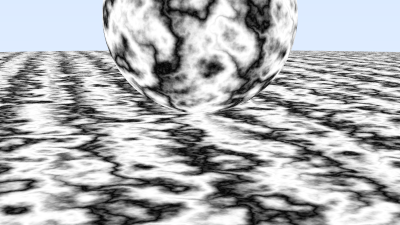
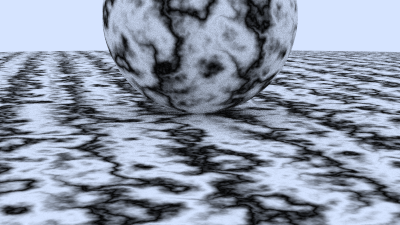
Added basic light, and added background color

diff --git a/src/scenes.h b/src/scenes.h
@@ -10,6 +10,7 @@
 #include "materials/Lambertian.h"
 #include "materials/Metal.h"
 #include "materials/Dielectric.h"
+#include "materials/DiffuseLight.h"
 
 void example1()
 {
@@ -20,6 +21,7 @@ void example1()
     settings.Camera.LookAt = Point3(0, 0, -1);
     settings.Camera.UpVec = Vec3(0, 1, 0);
     settings.Camera.VFOV = 20;
+    settings.Background = Color(0.70, 0.80, 1.00);
     settings.DefocusAngle = 10.0;
     settings.FocusDistance = 3.4;
     RayTracer tracer(settings);
@@ -42,6 +44,7 @@ void example1()
 void example2()
 {
     RayTracerSettings settings;
+    settings.Background = Color(0.70, 0.80, 1.00);
     RayTracer tracer(settings);
 
     float R = std::cos(PI / 4);
@@ -65,6 +68,7 @@ void finalScene()
     settings.Camera.LookFrom = Point3(13, 2, 3);
     settings.Camera.LookAt = Point3(0, 0, 0);
     settings.Camera.UpVec = Vec3(0, 1, 0);
+    settings.Background = Color(0.70, 0.80, 1.00);
     settings.DefocusAngle = 0.6f;
     settings.FocusDistance = 10.0f;
     RayTracer tracer(settings);
@@ -130,6 +134,7 @@ void bouncingBalls()
     settings.Camera.LookFrom = Point3(13, 2, 3);
     settings.Camera.LookAt = Point3(0, 0, 0);
     settings.Camera.UpVec = Vec3(0, 1, 0);
+    settings.Background = Color(0.70, 0.80, 1.00);
     settings.DefocusAngle = 0.6f;
     settings.FocusDistance = 10.0f;
     RayTracer tracer(settings);
@@ -196,6 +201,7 @@ void checkeredSpheres()
     settings.Camera.LookFrom = Point3(13, 2, 3);
     settings.Camera.LookAt = Point3(0, 0, 0);
     settings.Camera.UpVec = Vec3(0, 1, 0);
+    settings.Background = Color(0.70, 0.80, 1.00);
     RayTracer tracer(settings);
 
     auto checker = std::make_shared<CheckerTexture>(0.32, Color(.2, .3, .1), Color(.9, .9, .9));
@@ -216,6 +222,7 @@ void earth()
     settings.Camera.LookFrom = Point3(0, 0, 12);
     settings.Camera.LookAt = Point3(0, 0, 0);
     settings.Camera.UpVec = Vec3(0, 1, 0);
+    settings.Background = Color(0.70, 0.80, 1.00);
     RayTracer tracer(settings);
 
     auto earthTexture = std::make_shared<ImageTexture>("earthmap.jpg");
@@ -236,6 +243,7 @@ void imageSphere(const std::string& imagePath)
     settings.Camera.LookFrom = Point3(12, 0, 0);
     settings.Camera.LookAt = Point3(0, 0, 0);
     settings.Camera.UpVec = Vec3(0, 1, 0);
+    settings.Background = Color(0.70, 0.80, 1.00);
     RayTracer tracer(settings);
 
     auto earthTexture = std::make_shared<ImageTexture>(imagePath);
@@ -243,7 +251,7 @@ void imageSphere(const std::string& imagePath)
     auto globe = std::make_shared<Sphere>(Point3(0, 0, 0), 2, earthSurface);
     tracer.addObject(globe);
 
-    tracer.render("output/imageSphere.png");
+    tracer.render("output/image_sphere.png");
 }
 
 void perlinSpheres()
@@ -256,11 +264,12 @@ void perlinSpheres()
     settings.Camera.LookFrom = Point3(13, 2, 3);
     settings.Camera.LookAt = Point3(0, 0, 0);
     settings.Camera.UpVec = Vec3(0, 1, 0);
+    settings.Background = Color(0.70, 0.80, 1.00);
     RayTracer tracer(settings);
 
     auto pertext = std::make_shared<NoiseTexture>(4);
-    tracer.addObject(std::make_shared<Sphere>(Point3(0,-1000,0), 1000, std::make_shared<Lambertian>(pertext)));
-    tracer.addObject(std::make_shared<Sphere>(Point3(0,2,0), 2, std::make_shared<Lambertian>(pertext)));
+    tracer.addObject(std::make_shared<Sphere>(Point3(0, -1000, 0), 1000, std::make_shared<Lambertian>(pertext)));
+    tracer.addObject(std::make_shared<Sphere>(Point3(0, 2, 0), 2, std::make_shared<Lambertian>(pertext)));
 
     tracer.render("output/perlin_spheres.png");
 }
@@ -276,21 +285,76 @@ void quads()
     settings.Camera.LookFrom = Point3(0, 0, 9);
     settings.Camera.LookAt = Point3(0, 0, 0);
     settings.Camera.UpVec = Vec3(0, 1, 0);
+    settings.Background = Color(0.70, 0.80, 1.00);
     RayTracer tracer(settings);
 
     // Materials
-    auto left_red     = std::make_shared<Lambertian>(Color(1.0, 0.2, 0.2));
-    auto back_green   = std::make_shared<Lambertian>(Color(0.2, 1.0, 0.2));
-    auto right_blue   = std::make_shared<Lambertian>(Color(0.2, 0.2, 1.0));
+    auto left_red = std::make_shared<Lambertian>(Color(1.0, 0.2, 0.2));
+    auto back_green = std::make_shared<Lambertian>(Color(0.2, 1.0, 0.2));
+    auto right_blue = std::make_shared<Lambertian>(Color(0.2, 0.2, 1.0));
     auto upper_orange = std::make_shared<Lambertian>(Color(1.0, 0.5, 0.0));
-    auto lower_teal   = std::make_shared<Lambertian>(Color(0.2, 0.8, 0.8));
+    auto lower_teal = std::make_shared<Lambertian>(Color(0.2, 0.8, 0.8));
 
     // Quads
-    tracer.addObject(std::make_shared<Quad>(Point3(-3,-2, 5), Vec3(0, 0,-4), Vec3(0, 4, 0), left_red));
-    tracer.addObject(std::make_shared<Quad>(Point3(-2,-2, 0), Vec3(4, 0, 0), Vec3(0, 4, 0), back_green));
-    tracer.addObject(std::make_shared<Quad>(Point3( 3,-2, 1), Vec3(0, 0, 4), Vec3(0, 4, 0), right_blue));
+    tracer.addObject(std::make_shared<Quad>(Point3(-3, -2, 5), Vec3(0, 0, -4), Vec3(0, 4, 0), left_red));
+    tracer.addObject(std::make_shared<Quad>(Point3(-2, -2, 0), Vec3(4, 0, 0), Vec3(0, 4, 0), back_green));
+    tracer.addObject(std::make_shared<Quad>(Point3(3, -2, 1), Vec3(0, 0, 4), Vec3(0, 4, 0), right_blue));
     tracer.addObject(std::make_shared<Quad>(Point3(-2, 3, 1), Vec3(4, 0, 0), Vec3(0, 0, 4), upper_orange));
-    tracer.addObject(std::make_shared<Quad>(Point3(-2,-3, 5), Vec3(4, 0, 0), Vec3(0, 0,-4), lower_teal));
+    tracer.addObject(std::make_shared<Quad>(Point3(-2, -3, 5), Vec3(4, 0, 0), Vec3(0, 0, -4), lower_teal));
 
     tracer.render("output/quads.png");
+}
+
+void simpleLight()
+{
+    RayTracerSettings settings;
+    settings.Width = 400;
+    settings.SamplesPerPixel = 100;
+    settings.MaxDepth = 50;
+    settings.Camera.VFOV = 20;
+    settings.Camera.LookFrom = Point3(26, 3, 6);
+    settings.Camera.LookAt = Point3(0, 2, 0);
+    settings.Camera.UpVec = Vec3(0, 1, 0);
+    RayTracer tracer(settings);
+
+    auto pertext = std::make_shared<NoiseTexture>(4);
+    tracer.addObject(std::make_shared<Sphere>(Point3(0,-1000,0), 1000, std::make_shared<Lambertian>(pertext)));
+    tracer.addObject(std::make_shared<Sphere>(Point3(0,2,0), 2, std::make_shared<Lambertian>(pertext)));
+
+    auto difflight = std::make_shared<DiffuseLight>(Color(4,4,4));
+    tracer.addObject(std::make_shared<Sphere>(Point3(0,7,0), 2, difflight));
+    tracer.addObject(std::make_shared<Quad>(Point3(3,1,-2), Vec3(2,0,0), Vec3(0,2,0), difflight));
+
+    tracer.render("output/simple_light.png");
+}
+
+void cornellBox()
+{
+    RayTracerSettings settings;
+    settings.AspectRatio = 1.0f;
+    settings.Width = 600;
+    settings.SamplesPerPixel = 200;
+    settings.MaxDepth = 50;
+    settings.Camera.VFOV = 40;
+    settings.Camera.LookFrom = Point3(278, 278, -800);
+    settings.Camera.LookAt = Point3(278, 278, 0);
+    settings.Camera.UpVec = Vec3(0, 1, 0);
+    RayTracer tracer(settings);
+
+    auto red   = std::make_shared<Lambertian>(Color(.65, .05, .05));
+    auto white = std::make_shared<Lambertian>(Color(.73, .73, .73));
+    auto green = std::make_shared<Lambertian>(Color(.12, .45, .15));
+    auto light = std::make_shared<DiffuseLight>(Color(15, 15, 15));
+
+    tracer.addObject(std::make_shared<Quad>(Point3(555,0,0), Vec3(0,555,0), Vec3(0,0,555), green));
+    tracer.addObject(std::make_shared<Quad>(Point3(0,0,0), Vec3(0,555,0), Vec3(0,0,555), red));
+    tracer.addObject(std::make_shared<Quad>(Point3(343, 554, 332), Vec3(-130,0,0), Vec3(0,0,-105), light));
+    tracer.addObject(std::make_shared<Quad>(Point3(0,0,0), Vec3(555,0,0), Vec3(0,0,555), white));
+    tracer.addObject(std::make_shared<Quad>(Point3(555,555,555), Vec3(-555,0,0), Vec3(0,0,-555), white));
+    tracer.addObject(std::make_shared<Quad>(Point3(0,0,555), Vec3(555,0,0), Vec3(0,555,0), white));
+
+    // tracer.addObject(box(Point3(130, 0, 65), Point3(295, 165, 230), white));
+    // tracer.addObject(box(Point3(265, 0, 295), Point3(430, 330, 460), white));
+
+    tracer.render("output/cornell_box.png");
 }

diff --git a/src/RayTracer.cpp b/src/RayTracer.cpp
@@ -16,7 +16,7 @@ std::mutex RayTracer::s_imageMutex;
 
 RayTracer::RayTracer(RayTracerSettings settings)
     : m_aspectRatio(settings.AspectRatio), m_imageWidth(settings.Width), m_camera(settings.Camera),
-    m_samplesPerPixel(settings.SamplesPerPixel), m_maxDepth(settings.MaxDepth),
+    m_samplesPerPixel(settings.SamplesPerPixel), m_maxDepth(settings.MaxDepth), m_background(settings.Background),
     m_defocusAngle(settings.DefocusAngle), m_focusDistance(settings.FocusDistance)
 {
     initialize();
@@ -114,6 +114,9 @@ void RayTracer::setSettings(RayTracerSettings settings)
     m_camera = settings.Camera;
     m_samplesPerPixel = settings.SamplesPerPixel;
     m_maxDepth = settings.MaxDepth;
+    m_background = settings.Background;
+    m_defocusAngle = settings.DefocusAngle;
+    m_focusDistance = settings.FocusDistance;
     initialize();
 }
 
@@ -186,18 +189,21 @@ Color RayTracer::rayColor(const Ray& r, Hittable& objects, int depth) const
         return Color(0);
 
     HitRecord rec;
-    if (objects.hit(r, rec, Interval(0.001f, INF)))
-    {
-        Ray scattered;
-        Color attenuation;
-        if (rec.Mat->scatter(r, rec, attenuation, scattered))
-            return attenuation;// * rayColor(scattered, objects, depth - 1);
-        return Color(0);
-    }
 
-    Vec3 unitDirection = unitVector(r.direction());
-    float a = 0.5 * (unitDirection.y() + 1.0);
-    return (1.0 - a) * Color(1.0, 1.0, 1.0) + a * Color(0.5, 0.7, 1.0);
+    // If the ray hits nothing, return the background color.
+    if (!objects.hit(r, rec, Interval(0.001, INF)))
+        return m_background;
+
+    Ray scattered;
+    Color attenuation;
+    Color emissionColor = rec.Mat->emitted(rec.u, rec.v, rec.Point);
+
+    if (!rec.Mat->scatter(r, rec, attenuation, scattered))
+        return emissionColor;
+
+    Color scatterColor = attenuation * rayColor(scattered, objects, depth - 1);
+
+    return emissionColor + scatterColor;
 }
 
 void RayTracer::setPixel(std::vector<uint8_t>& image, int imageWidth, int x, int y, const Color& pixelColor) const

diff --git a/src/hittable/Quad.h b/src/hittable/Quad.h
@@ -2,6 +2,7 @@
 #include "Common.h"
 
 #include "Hittable.h"
+#include "HittableList.h"
 
 class Quad : public Hittable
 {
@@ -22,3 +23,27 @@ private:
     Vec3 m_normal;
     float m_D;
 };
+
+inline std::shared_ptr<HittableList> box(const Point3& a, const Point3& b, std::shared_ptr<Material> mat)
+{
+    // Returns the 3D box (six sides) that contains the two opposite vertices a & b.
+
+    auto sides = std::make_shared<HittableList>();
+
+    // Construct the two opposite vertices with the minimum and maximum coordinates.
+    auto min = Point3(std::fmin(a.x(),b.x()), std::fmin(a.y(),b.y()), std::fmin(a.z(),b.z()));
+    auto max = Point3(std::fmax(a.x(),b.x()), std::fmax(a.y(),b.y()), std::fmax(a.z(),b.z()));
+
+    auto dx = Vec3(max.x() - min.x(), 0, 0);
+    auto dy = Vec3(0, max.y() - min.y(), 0);
+    auto dz = Vec3(0, 0, max.z() - min.z());
+
+    sides->add(std::make_shared<Quad>(Point3(min.x(), min.y(), max.z()),  dx,  dy, mat)); // front
+    sides->add(std::make_shared<Quad>(Point3(max.x(), min.y(), max.z()), -dz,  dy, mat)); // right
+    sides->add(std::make_shared<Quad>(Point3(max.x(), min.y(), min.z()), -dx,  dy, mat)); // back
+    sides->add(std::make_shared<Quad>(Point3(min.x(), min.y(), min.z()),  dz,  dy, mat)); // left
+    sides->add(std::make_shared<Quad>(Point3(min.x(), max.y(), max.z()),  dx, -dz, mat)); // top
+    sides->add(std::make_shared<Quad>(Point3(min.x(), min.y(), min.z()),  dx,  dz, mat)); // bottom
+
+    return sides;
+}

diff --git a/src/RayTracer.h b/src/RayTracer.h
@@ -15,6 +15,7 @@ struct RayTracerSettings
     float AspectRatio = 16.0f / 9.0f;
     int SamplesPerPixel = 10;
     int MaxDepth = 10;
+    Color Background = Color(0);
     float DefocusAngle = 0; // Variation angle of rays through each pixel
     float FocusDistance = 10; // Distance from camera lookfrom point to plane of perfect focus
 };
@@ -45,6 +46,8 @@ private:
 
     int m_samplesPerPixel;
     int m_maxDepth;
+
+    Color m_background;
 
     Point3 m_pixel00Loc; // Location of pixel 0, 0
     Vec3 m_pixelDeltaU; // Offset to pixel to the right

diff --git a/src/materials/DiffuseLight.h b/src/materials/DiffuseLight.h
@@ -1,0 +1,18 @@
+#pragma once
+#include "Common.h"
+
+#include "Material.h"
+#include "texture/Texture.h"
+#include "texture/SolidColor.h"
+#include "hittable/Hittable.h"
+
+class DiffuseLight : public Material
+{
+public:
+    DiffuseLight(const Color& emit) : m_tex(std::make_shared<SolidColor>(emit)) {}
+    DiffuseLight(std::shared_ptr<Texture> texture) : m_tex(texture) {}
+
+    Color emitted(double u, double v, const Point3& p) const override { return m_tex->value(u, v, p); }
+private:
+    std::shared_ptr<Texture> m_tex;
+};

diff --git a/src/main.cpp b/src/main.cpp
@@ -9,7 +9,7 @@ int main()
 {
     auto begin = std::chrono::steady_clock::now();
 
-    switch (9)
+    switch (11)
     {
         case 1: example1();  break;
         case 2: example2(); break;
@@ -20,6 +20,8 @@ int main()
         case 7: imageSphere("thinking.png"); break;
         case 8: perlinSpheres(); break;
         case 9: quads(); break;
+        case 10: simpleLight(); break;
+        case 11: cornellBox(); break;
     }
 
     auto end = std::chrono::steady_clock::now();

diff --git a/src/materials/Material.h b/src/materials/Material.h
@@ -9,4 +9,6 @@ public:
     virtual ~Material() = default;
 
     virtual bool scatter(const Ray& rayIn, const HitRecord& rec, Color& attenuation, Ray& scattered) const { return false; }
+
+    virtual Color emitted(double u, double v, const Point3& p) const { return Color(0, 0, 0); }
 };
